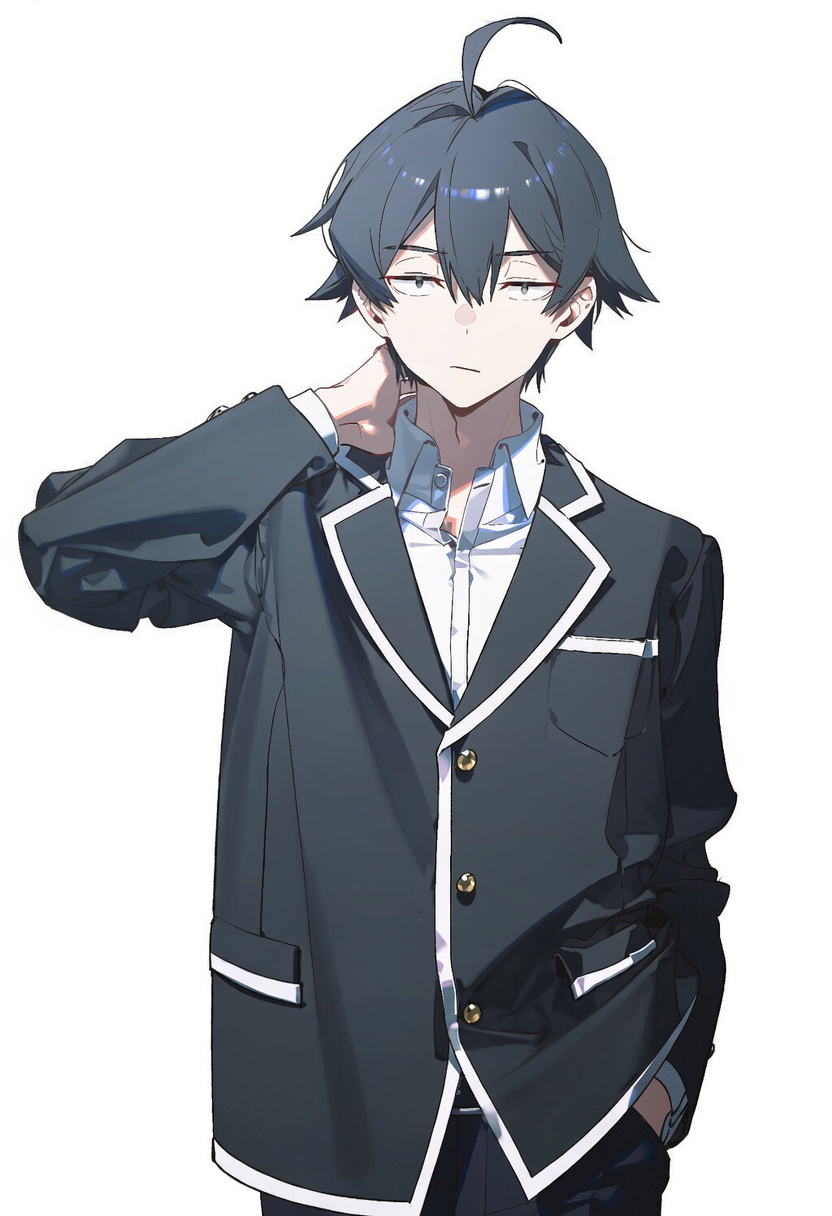
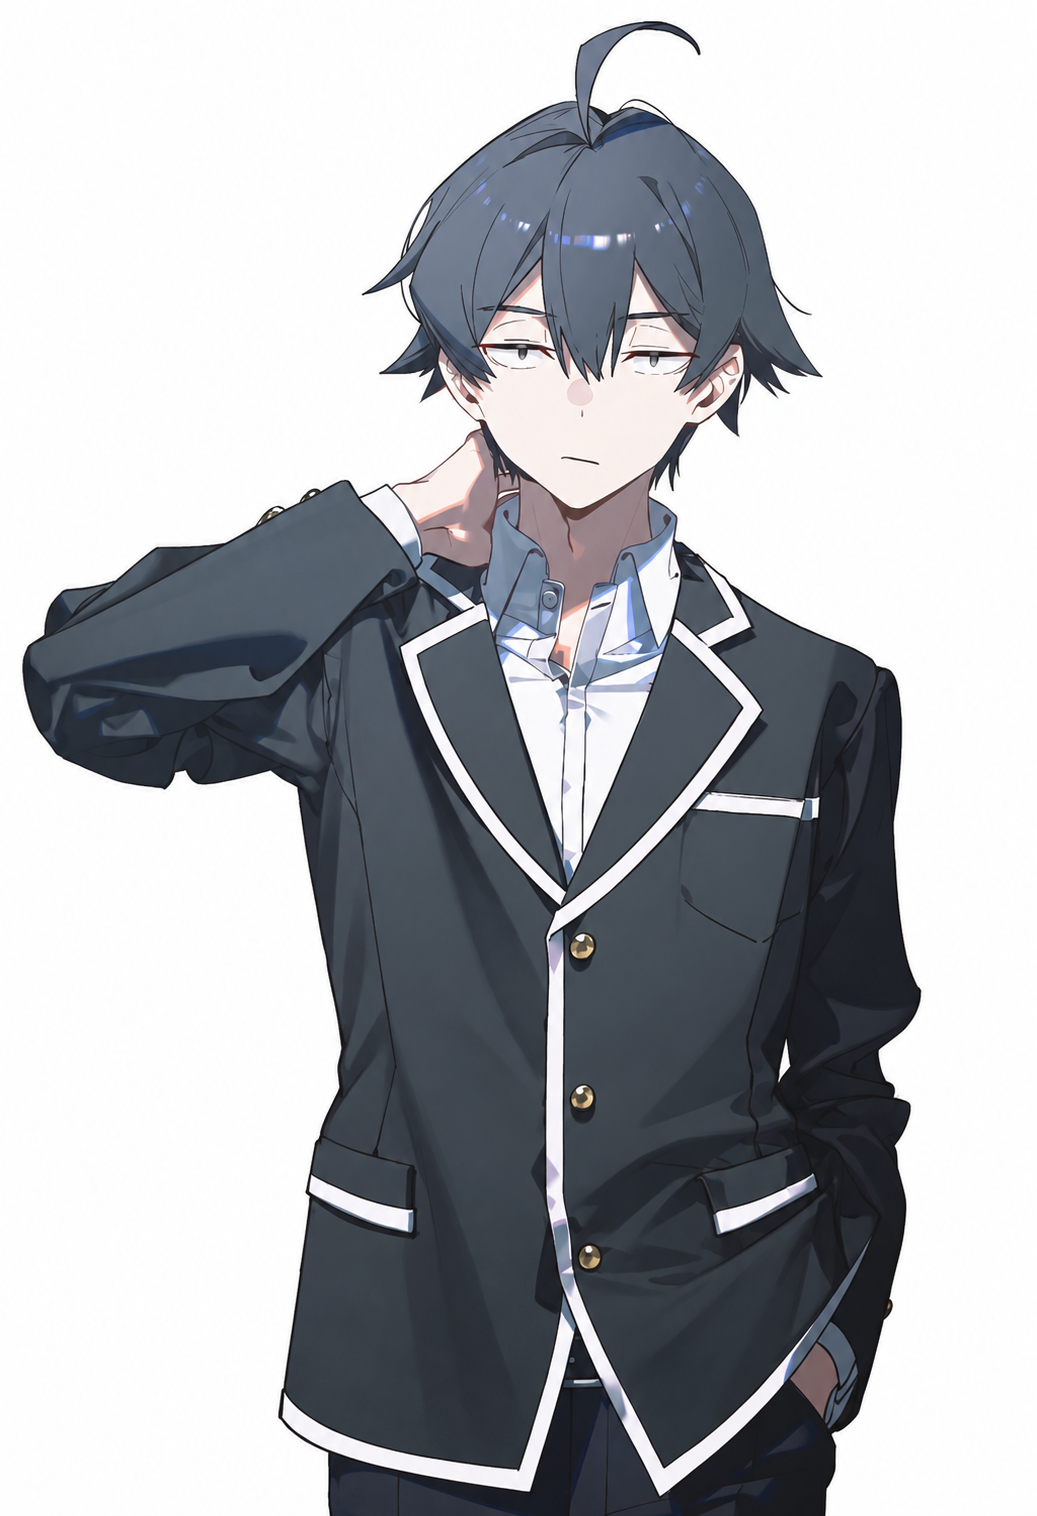
Update 比企谷八幡 default portrait

diff --git a/images/portraits/oregairu/hikigaya-hachiman/README.md b/images/portraits/oregairu/hikigaya-hachiman/README.md
@@ -1,11 +1,18 @@
 # 比企谷八幡 · 常规立绘
 
 - 当前文件：[default.png](default.png)。
-- 用户选定原图：`1boy, solo,__0.3__artist_letdie1414 __,_1.3__artist_ame (uten cancel), artist_ry s-2318749231.png`。
-- 尺寸：832 × 1216；大小：933,359 字节。
[1 lines of base64/hex data omitted]
-- PNG 模型记录：NovelAI Diffusion V5 0ADF9AB7。
-- 可读取的生成参数：seed 2318749231；steps 28；scale 6.0；cfg_rescale 0.0；sampler k_euler_ancestral；noise_schedule karras。
+- 用户选定原图：`hikigaya-hachiman-waist-repaired.png`。
+- 尺寸：1037 × 1516；大小：1,288,416 字节。
[1 lines of base64/hex data omitted]
+- PNG 模型记录：未知。
+- 可读取的生成参数：seed 未知；steps 未知；scale 未知；cfg_rescale 未知；sampler 未知；noise_schedule 未知。
 - 原图字节及内嵌数据完整保留，没有裁切、缩放、抠图或重新编码。
 - 当前默认形象的运行时引用以状态栏 portraitsSB 为准；不随剧情着装自动切换。
 - 图片选定不代替真实 SillyTavern 与实际设备显示验收。
+
+## 本次选定版本
+
+- 适度收拢制服西装腰侧，保留自然纤细的男性体型与一手扶颈、一手插袋姿势。
+- 本图经 Codex 图像编辑生成并由用户确认；本次上传未再次裁剪、缩放或重绘。
+- 当前目录固定使用 default.png，旧版已被替换，不另保留旧图文件；Git 历史可回溯。
+- 编辑成稿未携带可读取的 NovelAI 参数，旧版参数不能作为当前修复版的复现参数。
